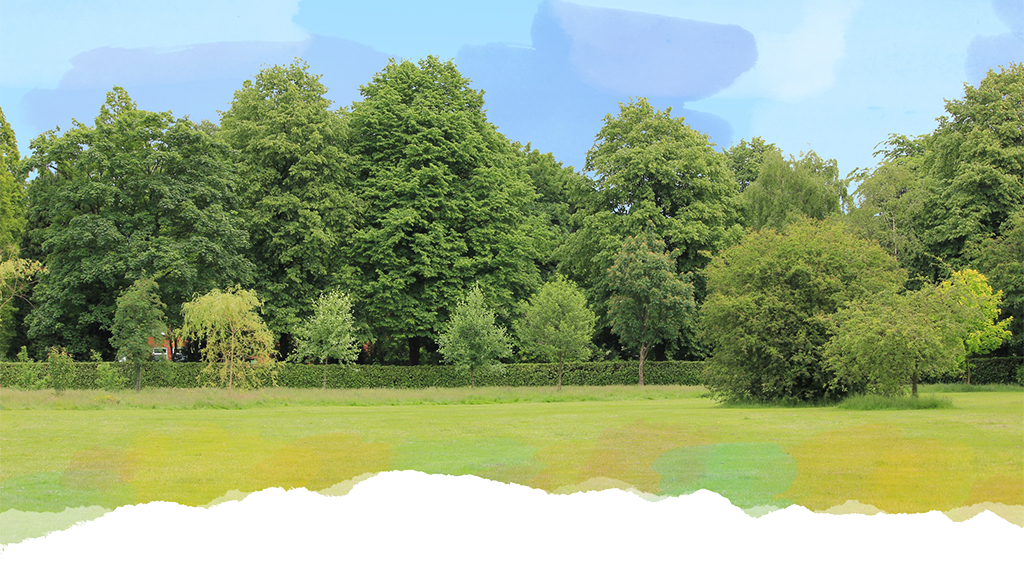
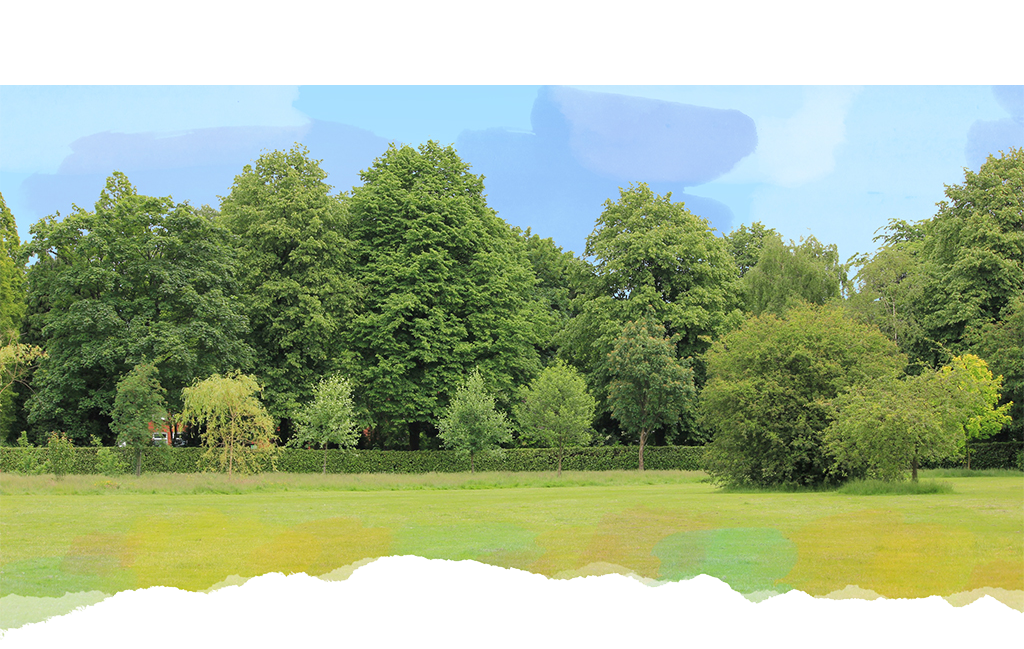
Contact Us section started

diff --git a/resources/css/style.css b/resources/css/style.css
@@ -12,6 +12,21 @@ html {
 }
 
 /*   HEADER   */
+
+.header-desktop {
+    display: block;
+    position: fixed;
+    width: 100%;
+    max-width: 1024px;
+    justify-content: center;
+    align-items: center;
+    height: 85px;
+    margin-top: -15px;
+    border-bottom: 1px solid #005960;
+    background-color: #f5f0e7;
+    background-image: url(../images/leaf_pattern.png)
+}
+
 .header-mobile {
     display: none;
 }
@@ -24,8 +39,6 @@ html {
     height: 64px;
     width: 100%;
     max-width: 1024px;
-    background-color: rgba(255, 255, 255, 0.7);
-    margin-top: -64px;
     font-size: 1.25rem;
 }
 
@@ -47,8 +60,17 @@ html {
 }
 
 .phone {
+    display: flex;
     color: #005960;
     padding-right: 24px;
+    font-size: 1rem;
+    align-items: baseline;
+}
+
+.number {
+    padding-left: 1rem;
+    font-size: 1.75rem;
+    font-weight: 700;
 }
 
 .icon {
@@ -60,19 +82,14 @@ html {
 
 
 /*   NAV BAR   */
-.header-desktop {
-    margin-top: 64px;
-    display: flex;
-    width: 100%;
-    justify-content: center;
-    align-items: center;
-    height: 50px;
-}
 
 .menu-desktop {
-    display: block;
-    position: center;
-    justify-content: space-around;
+    display: flex;
+    position: fixed;
+    margin-top: 60px;
+    width: 100%;
+    max-width: 1000px;
+    justify-content: center;
 }
 
 nav ul {
@@ -82,7 +99,7 @@ nav ul {
 nav li a {
     text-decoration: none;
     color: #005960;
-    padding: 0 2rem;
+    padding: 0 4rem;
 }
 
 nav li a:hover {
@@ -93,7 +110,6 @@ nav li a:hover {
 /*  JUMBOTRON  */
 .jumbotron {
     max-width: 1024px;
-    min-width: 500px;
     background-image: url(../images/jumbotron.png);
     background-repeat: no-repeat;
     background-size: 100% 100%;
@@ -102,7 +118,8 @@ nav li a:hover {
 
 .acel-logo {
     display: block;
-    margin: 20px auto 0 auto;
+    margin: 10px auto 0 auto;
+    padding-top: 90px;
     width: 30%;
     min-width: 100px;
 }
@@ -129,7 +146,7 @@ nav li a:hover {
     width: 100%;
     height: auto;
     align-items: top;
-    padding-top: 64px;
+    padding-top: 100px;
 }
 
 .about-text {
@@ -191,4 +208,57 @@ nav li a:hover {
 .services-para {
     display: flex;
     line-height: 1.5;
+}
+
+/*  CONTACT US SECTION  */
+.contact-content {
+    display: block;
+    text-align: center;
+    line-height: 2rem;
+    margin: 0 auto 100px auto;
+    width: 80%;
+}
+
+/*  STYLES FORM TEXT  */
+form {
+    color: #808080;
+    line-height: 2.5rem;
+}
+
+input[type=text] { /* STYLES THE TEXT FIELD BOX */
+    border: 2px solid #669900;
+    border-radius: 4px;
+    height: 24px;
+    width: 100%;
+    margin-left: 20px;
+    padding-left: 10px;
+}
+
+#f100 {
+    display: block;
+    width: 95%;
+    
+}
+
+#f200 {
+    display: inline-block;
+    width: 45%;
+    justify-content: space-between
+}
+
+#f300 {
+    display: inline-block;
+    float: none;
+    width: 45%;
+}
+
+/* STYLES THE SUBMIT BUTTON */
+input[type=submit] {
+    border: none;
+    border-radius: 4px;
+    height: 24px;
+    width: 100px;
+    font-size: .75rem;
+    background-color: #669900;
+    color: white;
 }

diff --git a/index.html b/index.html
@@ -19,30 +19,27 @@
   <body>
       
 <!--   HEADER & JUMBOTRON SECTION  -->
-    
-    <div class="title-bar">
-        <div class="logo-box">
-            <img class="icon" src="./resources/images/acel_tree-circle.png">
-            <h5><a href="index.html" class="acel">ACEL </a><a href="index.html" class="maintenance">MAINTENANCE</a>
-            </h5>
-        </div>
-
-        <div class="phone">
-            <h2>Call Us Today  623-363-8755</h2>
-        </div>
-    </div>  
-      
-    <div class="jumbotron">     
     <header class="header-desktop">
+        <div class="title-bar">
+            <div class="logo-box">
+                <img class="icon" src="./resources/images/acel_tree-circle.png">
+                <h5><a href="index.html" class="acel">ACEL </a><a href="index.html" class="maintenance">MAINTENANCE</a>
+                </h5>
+            </div>
+
+            <div class="phone">
+                <h2>Call Us Today  </h2><h2 class="number">623-363-8755</h2>
+            </div>
+        </div>  
             
-            <nav class="menu-desktop">
-                <ul>
-                   <li><a href="#about">About Us</a></li>
-                    <li><a href="#services">Services</a></li>
-                    <li><a href="#">Photos</a></li>
-                    <li><a href="#contact">Contact Us</a></li>
-                </ul>
-            </nav>
+        <nav class="menu-desktop">
+            <ul>
+                <li><a href="#about">ABOUT US</a></li>
+                <li><a href="#services">SERVICES</a></li>
+                <li><a href="#">PHOTOS</a></li>
+                <li><a href="#contact">CONTACT US</a></li>
+            </ul>
+        </nav>
             
     </header>
         
@@ -58,6 +55,7 @@
     </header>
       
     <!--   JUMBOTRON SECTION   -->
+    <div class="jumbotron"> 
       <div class="jumbo-container">
                 <img class="acel-logo" src="resources/images/acel_logo.png">
                 <h1 class="subhead">Arizona Cutting Edge Landscaping</h1>
@@ -115,7 +113,13 @@
         </div>
 
         <div class="contact-content">
-              
+              <form action="/action_page.php">
+                <input type="text" name="fullname" id="f100" placeholder="Name (Required)"><br>
+                <input type="text" name="email" id="f200" placeholder="Email (Required)">
+                <input type="text" name="phone" id="f200" placeholder="Phone"><br>
+                
+                <input type="submit" value="Submit">
+              </form>
         </div>
       </div>
       
